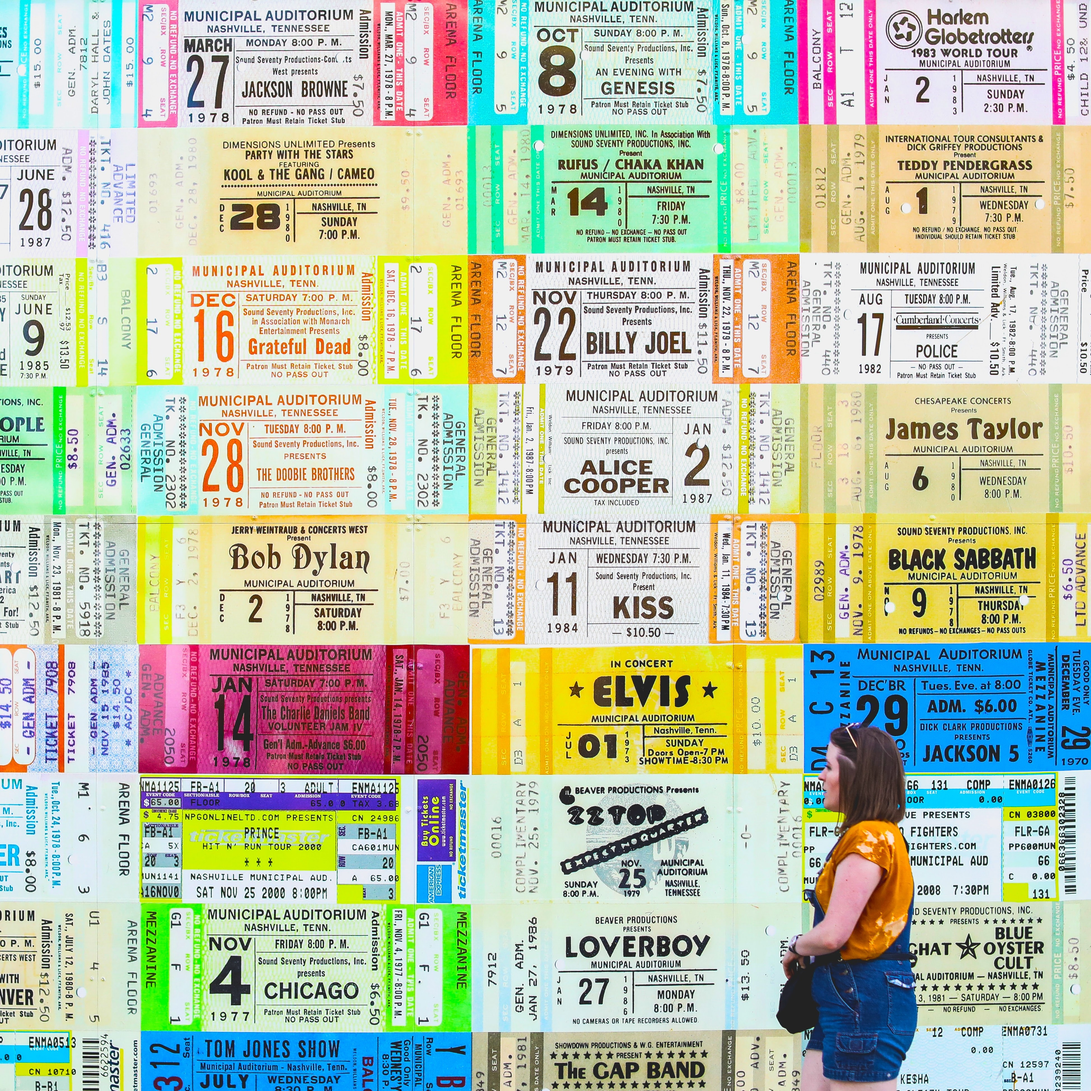
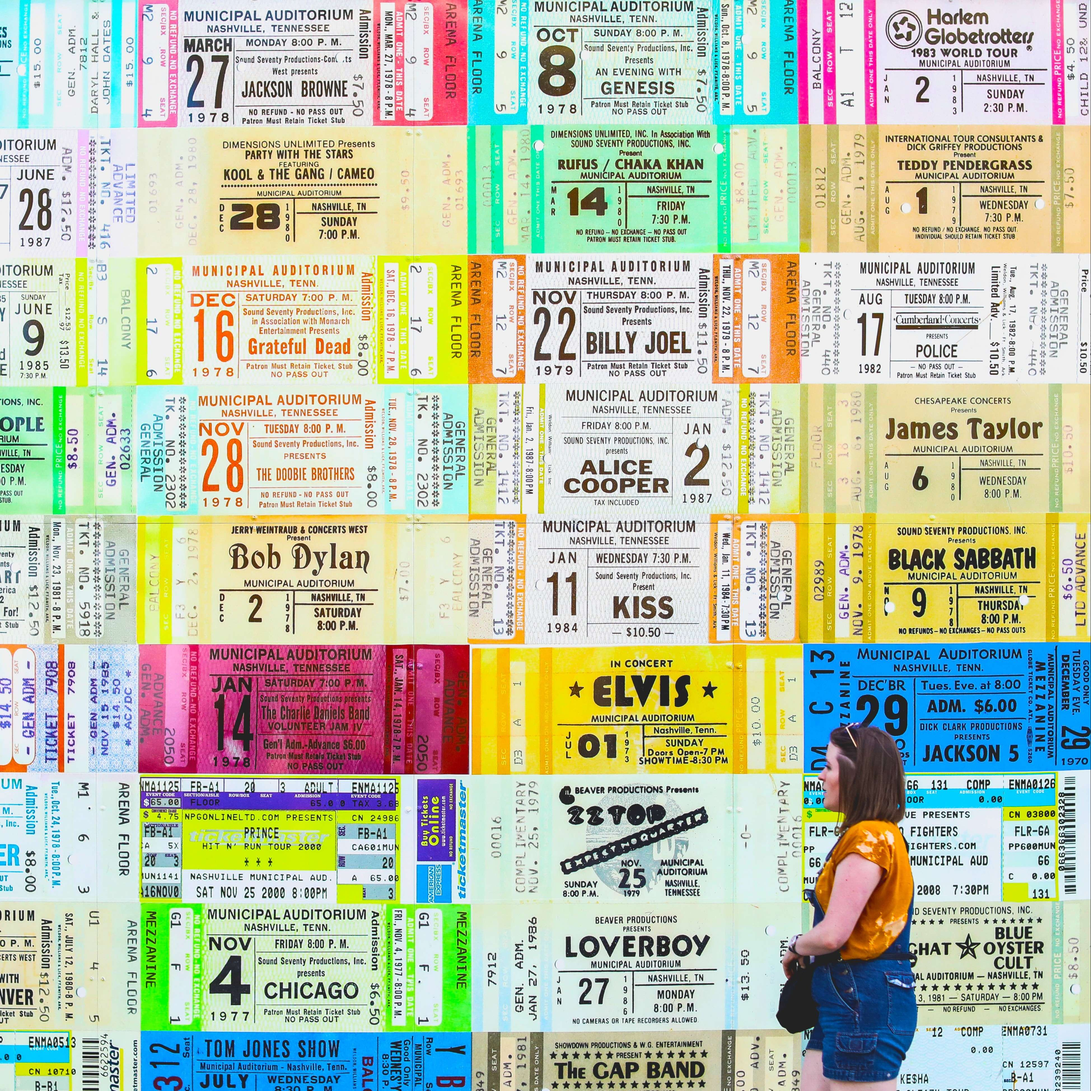
cambiando calidad de imágenes

diff --git a/pages/nosotros.html b/pages/nosotros.html
@@ -48,7 +48,7 @@
       </header>
 
       <!---------------- PORTADA INICIAL ---------------->
-      <img src="../img/portadanosotros.png" class="img-fluid" alt="...">
+      <img src="../img/portadanosotros.jpg" class="img-fluid" alt="...">
 
       <!---------- SECCION SOBRE NOSOTROS ---------->
       <div class="container contenedorSN row">
